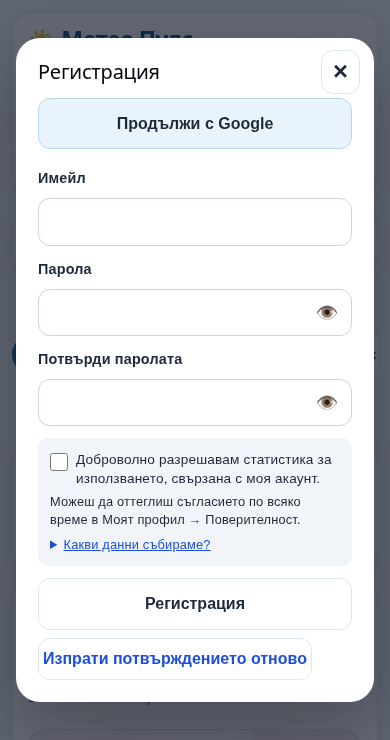
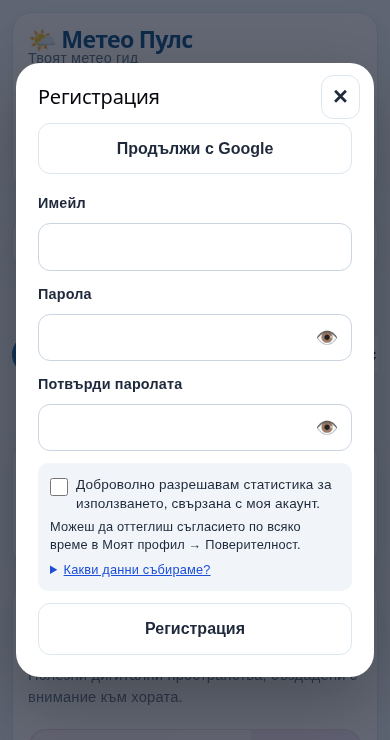
Show confirmation resend only after successful pending signup

diff --git a/src/AuthPanel.tsx b/src/AuthPanel.tsx
@@ -28,6 +28,7 @@ export function AuthPanel({ lang }: { lang: 'bg' | 'en' }) {
   const t = copy[lang]
   const stats = signupActivityCopy[lang]
   const [signupStatistics, setSignupStatistics] = useState(false)
+  const [confirmationEmail, setConfirmationEmail] = useState<string | null>(null)
   const [offerFailed, setOfferFailed] = useState(false)
   const [session, setSession] = useState<AuthSession | null>(null), [view, setView] = useState<View>('closed')
   const [email, setEmail] = useState(''), [password, setPassword] = useState(''), [confirmation, setConfirmation] = useState('')
@@ -82,7 +83,7 @@ export function AuthPanel({ lang }: { lang: 'bg' | 'en' }) {
   const captchaSiteKey = import.meta.env.VITE_TURNSTILE_SITE_KEY || ''
   const protectedView = view === 'login' || view === 'register' || view === 'forgot'
   const onCaptchaTokenChange = useCallback((token: string | null) => setCaptchaToken(token), [])
-  const changeView = (next: View) => { setCaptchaToken(null); setError(''); setMessage(''); setView(next); if (next === 'register' || next === 'closed') setSignupStatistics(false) }
+  const changeView = (next: View) => { setCaptchaToken(null); setError(''); setMessage(''); setConfirmationEmail(null); setView(next); if (next === 'register' || next === 'closed') setSignupStatistics(false) }
 
   useEffect(() => subscribeSession(active => {
     setSession(active)
@@ -142,14 +143,14 @@ export function AuthPanel({ lang }: { lang: 'bg' | 'en' }) {
     setBusy(true); setError(''); setMessage('')
     let captchaSent = false
     try {
-      if (view === 'register') { if (password !== confirmation) throw new Error('mismatch'); captchaSent = true; const result = await signUp(email, password, redirect, captchaToken || undefined)
+      if (view === 'register') { setConfirmationEmail(null); if (password !== confirmation) throw new Error('mismatch'); captchaSent = true; const result = await signUp(email, password, redirect, captchaToken || undefined)
         if (result.access_token && result.refresh_token) {
           const user = await getUser(result.access_token)
           const active = { ...result, user } as AuthSession
           // Live intent only, after verified authentication; never persist signup checkbox/metadata.
           try { await activityRequest(active, 'PATCH', {enabled: signupStatistics, onboarding: true}) } catch { /* A fresh server offer remains available. */ }
           saveSession(active); setSession(active); changeView('closed')
-        } else { setSignupStatistics(false); setMessage(t.verify) } }
+        } else { setConfirmationEmail(email); setSignupStatistics(false); setMessage(t.verify) } }
       if (view === 'login') { captchaSent = true; const active = await signIn(email, password, captchaToken || undefined); setSession(active); changeView('closed') }
       if (view === 'forgot') { captchaSent = true; await resetPassword(email, redirect, captchaToken || undefined); setMessage(t.reset) }
       if (view === 'password' && session) { await updatePassword(session.access_token, password); setPassword(''); setMessage(t.success) }
@@ -159,10 +160,10 @@ export function AuthPanel({ lang }: { lang: 'bg' | 'en' }) {
   const openProfile = async () => { if (busy) return; setProfile(null); setTab('account'); setWeatherDirty(false); setPushDirty(false); setView('profile'); setError(''); setMessage(''); if (!session) return; setBusy(true); try { const data = await profileRequest(session); setProfile(data); setName(data.name) } catch (reason) { fail(reason) } finally { setBusy(false) } }
   const logout = async () => { if (!session) return; const active = session; setSession(null); setProfile(null); setView('closed'); setMessage(t.signedOut); setBusy(false); await signOut(active) }
   const resend = async () => {
-    if (busy) return
+    if (busy || !confirmationEmail) return
     if (captchaConfigured && !captchaToken) { setError(t.captchaRequired); return }
     setBusy(true); setError(''); setMessage('')
-    try { await resendConfirmation(email, redirect, captchaToken || undefined); setMessage(t.resent) }
+    try { await resendConfirmation(confirmationEmail, redirect, captchaToken || undefined); setMessage(t.resent) }
     catch (reason) { fail(reason) }
     finally { setCaptchaToken(null); setCaptchaReset(value => value + 1); setBusy(false) }
   }
@@ -191,7 +192,7 @@ export function AuthPanel({ lang }: { lang: 'bg' | 'en' }) {
       <section id="profile-panel-account" role={view === 'profile' ? 'tabpanel' : undefined} aria-labelledby={view === 'profile' ? 'profile-tab-account' : undefined} hidden={view === 'statistics' || (view === 'profile' && tab !== 'account')}>
       {view === 'profile' && <><h3>{t.profile}</h3>{profile && <p className="profile-email"><span>{t.email}</span><strong>{profile.email}</strong></p>}<p className="profile-plan"><strong>{t.plan}:</strong> {profilePlanLabel(profile?.plan, lang, busy, Boolean(error))}</p></>}
       <form onSubmit={submit}>
-        {view !== 'profile' && view !== 'password' && <label>{t.email}<input type="email" required autoComplete="email" value={email} onChange={e => setEmail(e.target.value)} /></label>}
+        {view !== 'profile' && view !== 'password' && <label>{t.email}<input type="email" required autoComplete="email" value={email} onChange={e => { setEmail(e.target.value); setConfirmationEmail(null) }} /></label>}
         {(view === 'login' || view === 'register' || view === 'password') && <PasswordField label={view === 'password' ? t.newPassword : t.password} value={password} onChange={e => setPassword(e.target.value)} autoComplete={view === 'login' ? 'current-password' : 'new-password'} showLabel={t.showPassword} hideLabel={t.hidePassword} />}
         {view === 'register' && <PasswordField label={t.confirm} value={confirmation} onChange={e => setConfirmation(e.target.value)} autoComplete="new-password" showLabel={t.showPassword} hideLabel={t.hidePassword} />}
         {view === 'register' && <SignupActivityChoice lang={lang} checked={signupStatistics} onChange={setSignupStatistics} />}
@@ -201,7 +202,7 @@ export function AuthPanel({ lang }: { lang: 'bg' | 'en' }) {
         <button className="auth-submit" disabled={busy || !authConfigured || (view === 'profile' && !profile) || (protectedView && captchaConfigured && !captchaToken)}>{busy ? t.loading : view === 'profile' ? t.save : view === 'login' ? t.login : view === 'register' ? t.register : t.send}</button>
       </form>
       {view === 'login' && <button className="auth-link" onClick={() => changeView('forgot')}>{t.forgot}</button>}
-      {view === 'register' && <button className="auth-link" disabled={!email || busy || (captchaConfigured && !captchaToken)} onClick={resend}>{t.resend}</button>}
+      {view === 'register' && confirmationEmail && <button className="auth-link" disabled={!email || busy || (captchaConfigured && !captchaToken)} onClick={resend}>{t.resend}</button>}
       </section></div>
     </section></div>}
   </div>

diff --git a/tests/signup-activity.spec.ts b/tests/signup-activity.spec.ts
@@ -135,3 +135,24 @@ for(const width of [390,768,1440]) for(const lang of ['bg','en']) test(`compact 
  await expect(details).toContainText(lang==='bg'?'90 дни':'90 days')
  await choice.locator('summary').click();await expect(details).not.toHaveAttribute('open','')
 })
+for(const lang of ['bg','en']) test(`resend only after successful signup awaiting email ${lang}`,async({page})=>{
+ await fixture(page,lang)
+ let failSignup=false,failResend=false
+ const resends:any[]=[]
+ await page.route('**/auth/v1/signup?**',r=>r.fulfill({status:failSignup?500:200,json:failSignup?{message:'isolated failure'}:{user:{id:user.id,email:user.email}}}))
+ await page.route('**/auth/v1/resend',r=>{resends.push(r.request().postDataJSON());return r.fulfill({status:failResend?500:200,json:failResend?{message:'isolated failure'}:{}})})
+ await page.goto('/');await page.locator('#planner-auth > button.primary').click()
+ const resend=page.getByRole('button',{name:lang==='bg'?'Изпрати потвърждението отново':'Resend confirmation',exact:true})
+ await expect(resend).toHaveCount(0)
+ await page.locator('input[type=email]').fill(user.email);await page.locator('input[type=password]').nth(0).fill('safe-test-password');await page.locator('input[type=password]').nth(1).fill('safe-test-password')
+ failSignup=true;await page.locator('.auth-submit').click();await expect(page.locator('.auth-error')).toBeVisible();await expect(resend).toHaveCount(0)
+ failSignup=false;await page.locator('.auth-submit').click();await expect(page.locator('.auth-success')).toContainText(lang==='bg'?'Провери имейла':'Check your email');await expect(resend).toBeEnabled()
+ await resend.click();await expect(page.locator('.auth-success')).toContainText(lang==='bg'?'изпратено отново':'sent again')
+ expect(resends[0].email).toBe(user.email);expect(resends[0].type).toBe('signup')
+ failResend=true;await resend.click();await expect(page.locator('.auth-error')).toBeVisible();await expect(resend).toBeEnabled()
+ failSignup=true;await page.locator('.auth-submit').click();await expect(page.locator('.auth-error')).toBeVisible();await expect(resend).toHaveCount(0)
+ failSignup=false;await page.locator('.auth-submit').click();await expect(resend).toBeEnabled()
+ await page.locator('input[type=email]').fill('different@example.invalid');await expect(resend).toHaveCount(0)
+ await page.locator('input[type=email]').fill(user.email);await page.locator('.auth-submit').click();await expect(resend).toBeEnabled()
+ await page.getByRole('button',{name:lang==='bg'?'Затвори':'Close',exact:true}).click();await page.locator('#planner-auth > button.primary').click();await expect(resend).toHaveCount(0)
+})

diff --git a/docs/signup-activity-consent-bg.md b/docs/signup-activity-consent-bg.md
@@ -74,7 +74,7 @@ CHROMIUM_PATH=/usr/bin/chromium npm run test:activity:integration
 | Проверка | Резултат |
 |---|---|
 | `npm test` | PASS — 271/271 |
-| Нови Chromium сценарии за регистрация и съгласие | PASS — 27/27 |
+| Нови Chromium сценарии за регистрация и съгласие | PASS — 29/29 |
 | Chromium регресии за активност, профил, план и чернови | PASS — 52/52 |
 | Реална GoTrue/PostgREST/PostgreSQL интеграция | PASS — 16/16 групи проверки при първата версия на PR; непроменен backend |
 | Нов SQL тест за onboarding | PASS при първата версия на PR; не е повторен за UI корекцията |
@@ -103,3 +103,14 @@ CHROMIUM_PATH=/usr/bin/chromium npm run test:activity:integration
 Screenshots за имейл и Google на BG/EN, при трите ширини: [signup-compact-screenshots](signup-compact-screenshots).
 
 Финални проверки на UI корекцията: unit **271/271**, Chromium регистрация/оформление **27/27**, Chromium регресии **52/52**, lint, typecheck, build и `git diff --check` — **PASS**. Добавени са **12 screenshots**. PR №64 остава отворен и не се слива.
+
+
+## Бутон за повторно имейл потвърждение
+
+При първо отваряне на регистрацията „Изпрати потвърждението отново“ / „Resend confirmation“ не се показва. Появява се само след успешна signup заявка без активна сесия, когато съществуващият flow изисква имейл потвърждение. Не се показва при неуспешна регистрация или незабавно удостоверена регистрация.
+
+Състоянието е само в текущата форма. Нов signup опит го изчиства преди заявката; промяна на имейла, затваряне и повторно отваряне също го изчистват. При повторно изпращане се използва адресът от успешната заявка. Самият endpoint, BG/EN преводите, captcha payload, изискването за свеж Turnstile token, disabled състоянието при липсващ token/текуща операция и reset след всеки resend опит са запазени. Грешка при повторното писмо позволява нов опит; не се представя като успешна регистрация.
+
+Двата нови BG/EN Chromium теста покриват първо отваряне, неуспешен signup, успешен signup с имейл потвърждение, успешно повторно писмо с правилния адрес, грешка при resend и възможност за retry, нов неуспешен signup след предишен успех, редактиране на имейла и затваряне/повторно отваряне. Съществуващите тестове за незабавно удостоверена регистрация и Turnstile договорите се запазват. Регистрационните screenshots са обновени без първоначалния resend бутон.
+
+Проверки след последната UX корекция: 271/271 unit теста и 81/81 Chromium сценария (29 за регистрация и 52 за профил/статистика). Lint, typecheck, build и git diff --check са успешни. Обновени са BG/EN screenshots на регистрацията при 390, 768 и 1440 px. Няма промени по SQL миграцията, API, Supabase или Production.

diff --git a/docs/signup-compact-screenshots/README.md b/docs/signup-compact-screenshots/README.md
@@ -1,6 +1,6 @@
 # Компактно съгласие — Chromium screenshots
 
-Затворени по подразбиране подробности; имейл регистрация с празна отметка и еднократно Google предложение с равнопоставени действия. Изолирани Auth/OAuth отговори, без реални потребителски данни и без CAPTCHA.
+Без resend бутон преди успешна регистрация с необходимо имейл потвърждение. Затворени по подразбиране подробности; имейл регистрация с празна отметка и еднократно Google предложение с равнопоставени действия. Изолирани Auth/OAuth отговори, без реални потребителски данни и без CAPTCHA.
 
 | Ширина | Изглед | BG | EN |
 |---|---|---|---|
